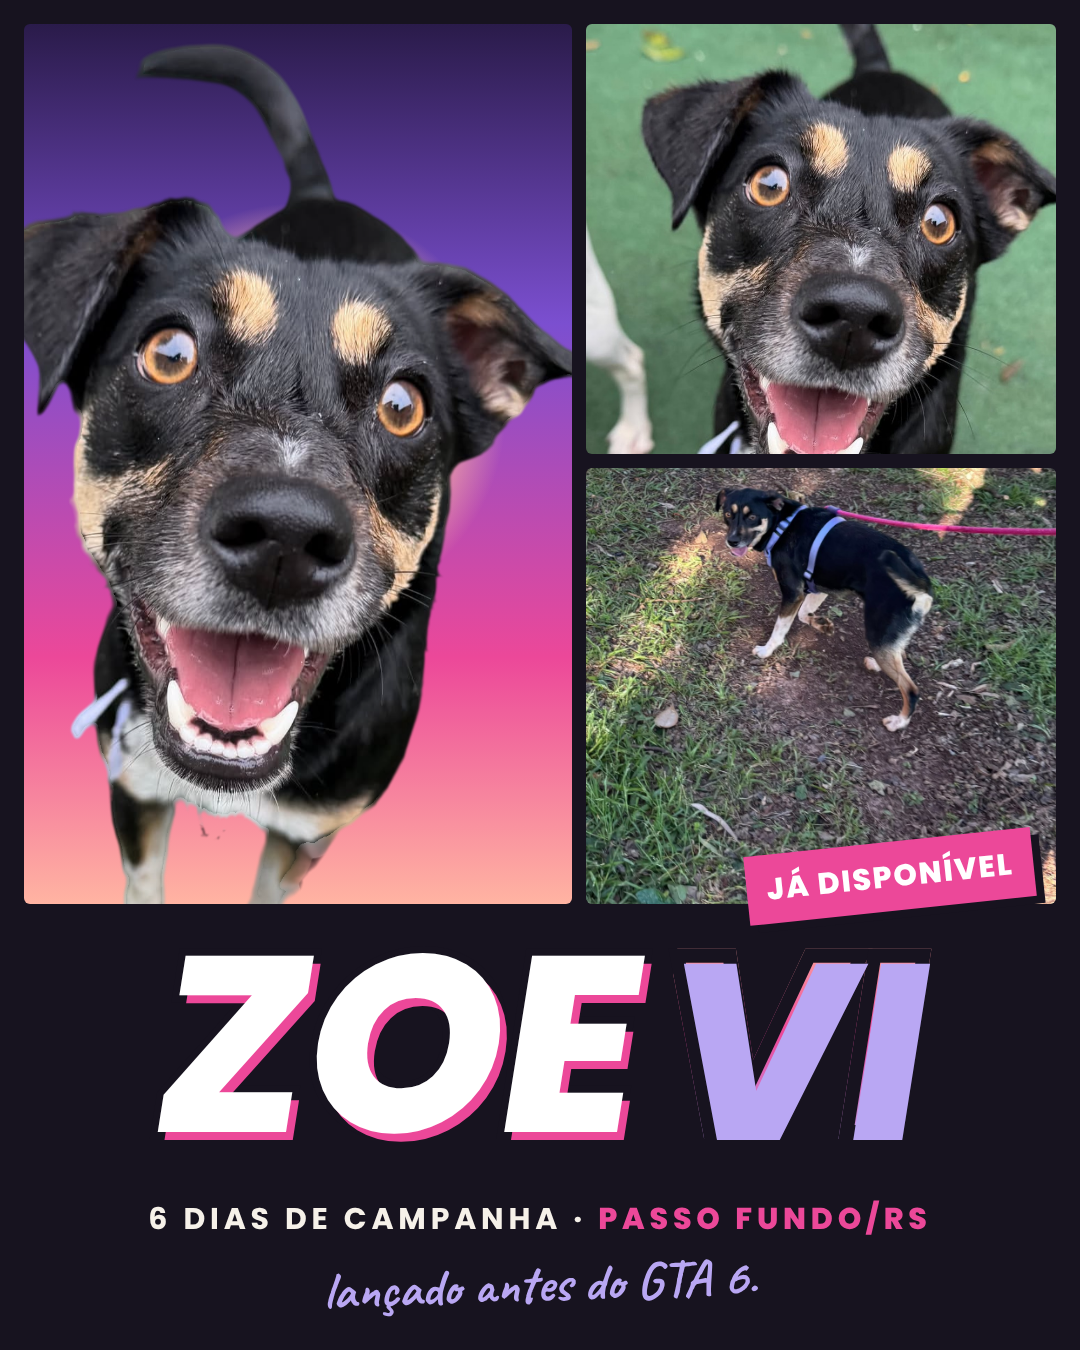
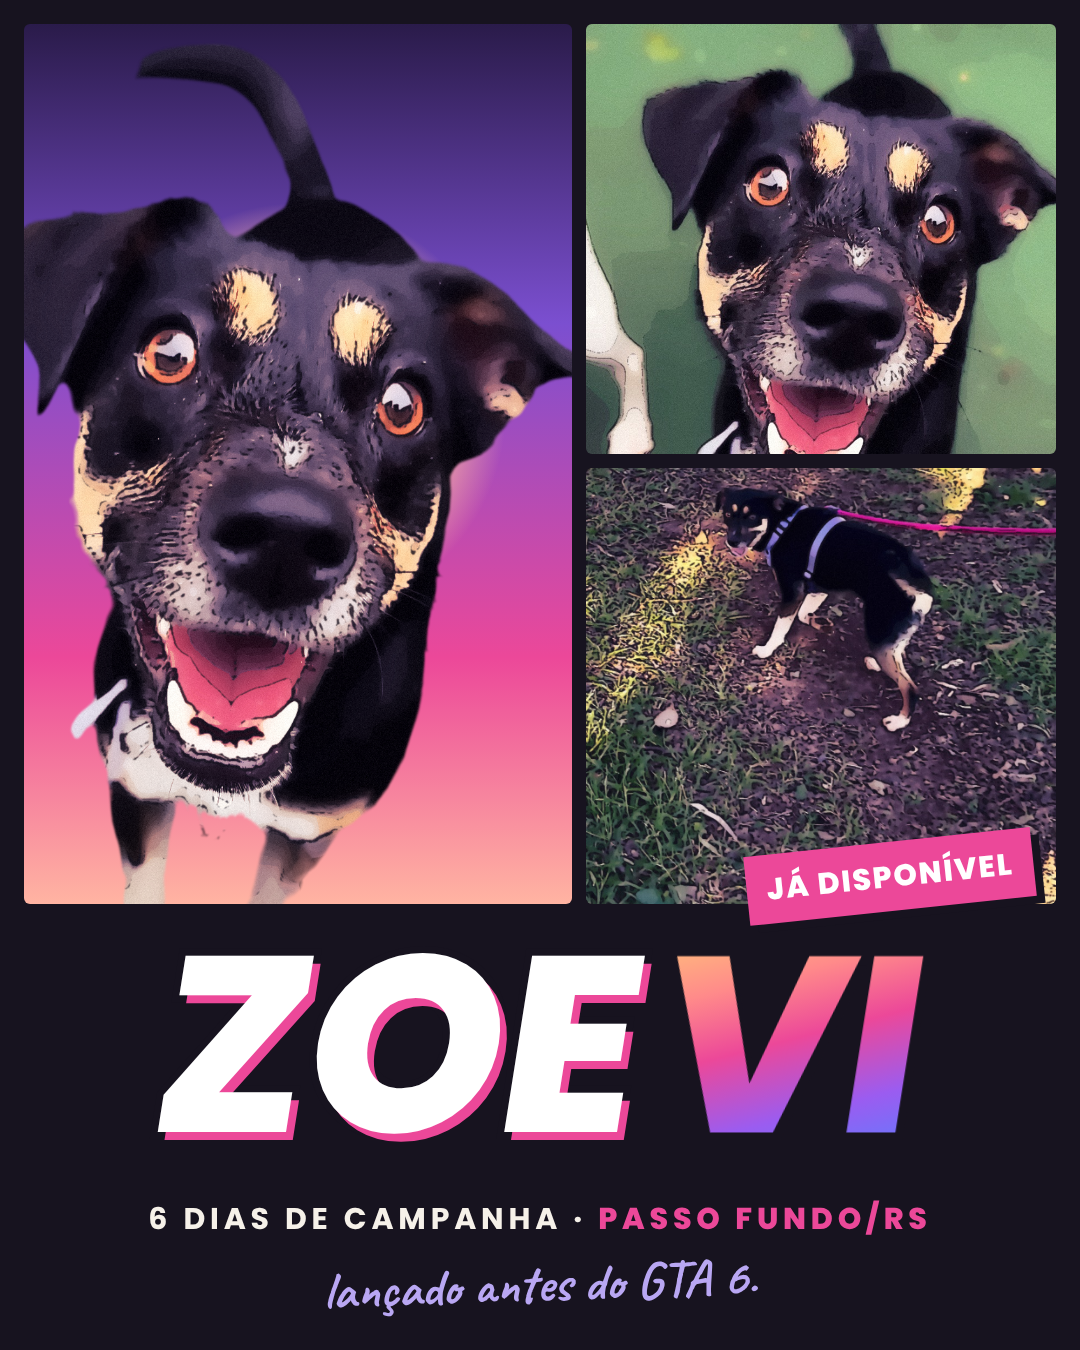
ZOE VI: fotos com o efeito de arte do GTA VI
gta_fx.py transforma as fotos reais em "pintura" no estilo das artes do
GTA VI (cores chapadas, contorno ink, saturação e pôr do sol roxo, rosa e
laranja), sem desenhar nada por cima. O carrossel passa a usar essas
versões (img/zoe-vi/fx-*), e o VI do título ganha o degradê pôr do sol.

Claude-Session: https://claude.ai/code/session_01E463xH9BcWVb3vVwhdwWao

Changed region(s): [[0.0, 0.0, 0.9778, 0.8711], [0.1222, 0.0311, 0.3056, 0.1556]]

diff --git a/carrossel/zoe-vi.html b/carrossel/zoe-vi.html
@@ -67,7 +67,10 @@ body{background:#000;font-family:P,sans-serif;-webkit-font-smoothing:antialiased
 .c1 .logo{position:absolute;left:0;right:0;top:930px;text-align:center;z-index:3}
 .c1 .zoe{font-size:250px;color:#fff}
 .c1 .vi{font-size:250px;margin-left:24px;
-  background:linear-gradient(180deg,#FFB4A2 0%,var(--pink) 45%,var(--lilac) 100%);-webkit-background-clip:text;background-clip:text;color:transparent;text-shadow:8px 8px 0 var(--lilac)}
+  /* o "VI" no degradê pôr do sol (laranja → rosa → roxo → azul), como o numeral da arte do GTA VI; a sombra vai no .logo (drop-shadow) */
+  background:linear-gradient(165deg,#FFC37A 0%,#FF8A8A 25%,var(--pink) 48%,#9B5CF0 75%,#5F7CFF 100%);
+  -webkit-background-clip:text;background-clip:text;color:transparent;-webkit-text-stroke:0;text-shadow:none;
+  filter:drop-shadow(0 0 0 var(--ink)) drop-shadow(8px 8px 0 var(--ink))}
 .c1 .sub{position:absolute;left:0;right:0;top:1196px;text-align:center;font-weight:700;font-size:30px;letter-spacing:.16em;text-transform:uppercase;color:var(--cream)}
 .c1 .sub b{color:var(--pink)}
 .c1 .stamp{position:absolute;right:46px;top:842px;z-index:4;background:var(--pink);color:#fff;font-weight:800;font-size:30px;
@@ -148,9 +151,9 @@ body{background:#000;font-family:P,sans-serif;-webkit-font-smoothing:antialiased
 
 <!-- 1: capa -->
 <section class="card c1">
-  <div class="pn a"><img src="img/zoe-vi/zoe-creche.png" alt=""></div>
-  <div class="pn b"><img src="img/4.jpg" alt=""></div>
-  <div class="pn c"><img src="img/3.jpg" alt=""></div>
+  <div class="pn a"><img src="img/zoe-vi/fx-zoe-creche.png" alt=""></div>
+  <div class="pn b"><img src="img/zoe-vi/fx-4.jpg" alt=""></div>
+  <div class="pn c"><img src="img/zoe-vi/fx-3.jpg" alt=""></div>
   <div class="stamp">Já disponível</div>
   <div class="logo"><span class="game zoe">Zoe</span><span class="game vi">VI</span></div>
   <div class="sub">6 dias de campanha · <b>Passo Fundo/RS</b></div>
@@ -159,7 +162,7 @@ body{background:#000;font-family:P,sans-serif;-webkit-font-smoothing:antialiased
 
 <!-- 2: a missão -->
 <section class="card c2 fade">
-  <img class="bg" src="img/3.jpg" alt="">
+  <img class="bg" src="img/zoe-vi/fx-3.jpg" alt="">
   <div class="help"><small>Objetivo</small>Escape da guia na porta da creche. Chegue ao <b>Instituto Menino Deus</b>.</div>
   <div class="hud">
     <div class="clock">SEX 08:43</div>
@@ -214,7 +217,7 @@ body{background:#000;font-family:P,sans-serif;-webkit-font-smoothing:antialiased
 
 <!-- 5: missão cumprida -->
 <section class="card c5">
-  <img class="bg" src="img/7.jpg" alt="">
+  <img class="bg" src="img/zoe-vi/fx-7.jpg" alt="">
   <div class="top">
     <div class="game done">Missão<br><em>cumprida!</em></div>
     <div class="loc">Instituto Menino Deus · qui 24/09 · 16h</div>
@@ -228,7 +231,7 @@ body{background:#000;font-family:P,sans-serif;-webkit-font-smoothing:antialiased
 
 <!-- 6: nova missão -->
 <section class="card c6">
-  <img class="bg" src="img/9.jpg" alt="">
+  <img class="bg" src="img/zoe-vi/fx-9.jpg" alt="">
   <div class="unlock">Nova missão desbloqueada</div>
   <div class="txt">
     <div class="h">Ajudar outros animais<br>a <span>voltar pra casa.</span></div>

diff --git a/carrossel/gta_fx.py b/carrossel/gta_fx.py
@@ -1,0 +1,99 @@
+"""Efeito "arte de capa do GTA VI" nas fotos do carrossel ZOE VI (carrossel/zoe-vi.html).
+
+As artes oficiais do GTA VI são pinturas digitais em cima de fotos: cores chapadas e suaves (o detalhe fino some),
+contorno escuro nas bordas, contraste alto e a luz de fim de tarde de Vice City (sombras roxas, luzes rosa e laranja).
+Aqui o efeito é feito só com processamento de imagem, em cima das fotos reais (nada é desenhado nem inventado):
+
+  1. pintura: filtro que preserva bordas (edgePreservingFilter) + um pouco de quantização (k-means) para chapar as cores;
+  2. contorno: bordas da imagem suavizada (adaptiveThreshold), em ink, multiplicadas por cima;
+  3. cor: saturação e contraste maiores + um mapa de gradiente pôr do sol (roxo → rosa → laranja → creme), misturado em parte;
+  4. um grão leve, para não ficar com cara de filtro de app.
+O canal alfa do recorte (zoe-creche.png) é mantido.
+
+Saída: carrossel/img/zoe-vi/fx-<nome>.jpg (ou .png para o recorte)
+Uso: python carrossel/gta_fx.py   (opencv-python-headless + numpy + Pillow, num venv temporário)
+"""
+from pathlib import Path
+
+import cv2
+import numpy as np
+
+AQUI = Path(__file__).resolve().parent
+IMG = AQUI / "img"
+OUT = IMG / "zoe-vi"
+
+FOTOS = [IMG / "3.jpg", IMG / "4.jpg", IMG / "7.jpg", IMG / "9.jpg", OUT / "zoe-creche.png"]
+
+# mapa de gradiente pôr do sol, da sombra para a luz
+GRAD = [(0.00, "#1B1035"), (0.30, "#5B2A8C"), (0.55, "#D9408F"), (0.78, "#FF9E7A"), (1.00, "#FFF1DC")]
+INK = np.array([0x1F, 0x13, 0x17], np.float32) / 255  # BGR
+
+
+def hex_bgr(h):
+    h = h.lstrip("#")
+    return np.array([int(h[4:6], 16), int(h[2:4], 16), int(h[0:2], 16)], np.float32) / 255
+
+
+def gradiente(lum):
+    pos = np.array([p for p, _ in GRAD], np.float32)
+    cores = np.stack([hex_bgr(c) for _, c in GRAD])
+    out = np.zeros(lum.shape + (3,), np.float32)
+    for k in range(3):
+        out[..., k] = np.interp(lum, pos, cores[:, k])
+    return out
+
+
+def quantiza(img, k=18):
+    z = img.reshape(-1, 3).astype(np.float32)
+    crit = (cv2.TERM_CRITERIA_EPS + cv2.TERM_CRITERIA_MAX_ITER, 12, 1.0)
+    _, lab, cen = cv2.kmeans(z, k, None, crit, 2, cv2.KMEANS_PP_CENTERS)
+    return cen[lab.flatten()].reshape(img.shape)
+
+
+def efeito(bgr, alfa=None):
+    h, w = bgr.shape[:2]
+    escala = max(h, w) / 1350
+    # 1. pintura
+    pint = cv2.edgePreservingFilter(bgr, flags=cv2.RECURS_FILTER, sigma_s=45, sigma_r=0.32)
+    pint = cv2.bilateralFilter(pint, 9, 40, 9)
+    q = quantiza(pint).astype(np.float32)
+    pint = cv2.addWeighted(pint.astype(np.float32), 0.6, q, 0.4, 0) / 255
+
+    # 3. cor: saturação, contraste em S e o pôr do sol
+    hsv = cv2.cvtColor((pint * 255).astype(np.uint8), cv2.COLOR_BGR2HSV).astype(np.float32)
+    hsv[..., 1] = np.clip(hsv[..., 1] * 1.3, 0, 255)
+    cor = cv2.cvtColor(hsv.astype(np.uint8), cv2.COLOR_HSV2BGR).astype(np.float32) / 255
+    cor = np.clip((cor - 0.5) * 1.18 + 0.52, 0, 1)
+    cor = cor * cor * (3 - 2 * cor) * 0.55 + cor * 0.45  # curva em S suave
+    lum = cv2.cvtColor((cor * 255).astype(np.uint8), cv2.COLOR_BGR2GRAY).astype(np.float32) / 255
+    cor = cor * 0.78 + gradiente(lum) * 0.22
+
+    # 2. contorno em ink nas bordas
+    cinza = cv2.cvtColor((pint * 255).astype(np.uint8), cv2.COLOR_BGR2GRAY)
+    cinza = cv2.medianBlur(cinza, 5)
+    bloco = int(9 * escala) | 1
+    borda = cv2.adaptiveThreshold(cinza, 255, cv2.ADAPTIVE_THRESH_MEAN_C, cv2.THRESH_BINARY, max(bloco, 7), 5)
+    borda = cv2.GaussianBlur(255 - borda, (3, 3), 0).astype(np.float32) / 255 * 0.8
+    cor = cor * (1 - borda[..., None]) + INK * borda[..., None]
+
+    # 4. grão leve
+    rng = np.random.default_rng(6)
+    cor = np.clip(cor + rng.normal(0, 0.018, cor.shape[:2])[..., None], 0, 1)
+    out = (cor * 255).astype(np.uint8)
+    if alfa is not None:
+        out = np.dstack([out, alfa])
+    return out
+
+
+def main():
+    for f in FOTOS:
+        im = cv2.imread(str(f), cv2.IMREAD_UNCHANGED)
+        alfa = im[..., 3] if im.shape[2] == 4 else None
+        out = efeito(im[..., :3], alfa)
+        dest = OUT / f"fx-{f.stem}{'.png' if alfa is not None else '.jpg'}"
+        cv2.imwrite(str(dest), out, [cv2.IMWRITE_JPEG_QUALITY, 92] if alfa is None else [])
+        print(dest.relative_to(AQUI.parent), out.shape[1], "x", out.shape[0])
+
+
+if __name__ == "__main__":
+    main()

diff --git a/CLAUDE.md b/CLAUDE.md
@@ -88,6 +88,9 @@ carrossel/    # template padronizado dos carrosséis (versionado)
   zoe-vi.html   # carrossel-meme "ZOE VI" (carrossel2, 6 cards), na onda do GTA 6: a fuga como missões de jogo (capa em painéis, HUD com
                 # objetivo/relógio/estrelas, recorde 2 km em 7 min, "carregando" para os dias que ninguém sabe, missão cumprida, nova missão)
                 # só no tom: nada de logo, fonte ou arte da Rockstar. Fotos de img/ + img/zoe-vi/ (Zoe recortada da etiqueta e o mapa do Ep. 3)
+                # as fotos entram com o efeito "arte do GTA VI" (img/zoe-vi/fx-*), e o "VI" do título no degradê pôr do sol
+  gta_fx.py     # efeito "arte de capa do GTA VI" nas fotos reais: pintura (edgePreservingFilter + k-means), contorno ink, saturação
+                # e mapa de gradiente pôr do sol (roxo → rosa → laranja) → img/zoe-vi/fx-<nome>; opencv-python-headless num venv temporário
   img/          # fotos já recortadas para cada card (1.jpg..9.jpg)
   fonts/        # Poppins + Caveat (manuscrita)
 capa/         # template HTML da capa do Reel 01 v2 (1080x1920, texto dentro do recorte 3:4 do grid); os Reels 02+ usam editor/capa_0N.py
